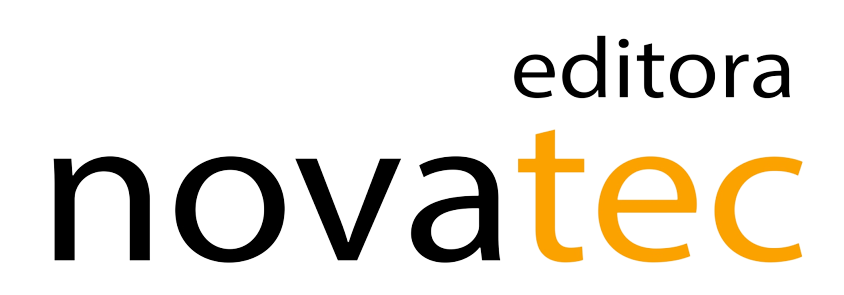
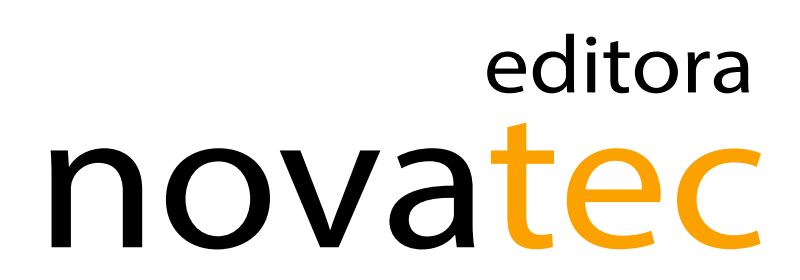
add novatec

diff --git a/index.html b/index.html
@@ -147,6 +147,10 @@ include_countdown: true
 						class="bg-white rounded-lg p-8 flex items-center justify-center transform hover:scale-105 transition duration-300">
 						<img src="{{ "/images/apoiadores/ISACA%20RIO.jpeg" | relative_url }}" alt="Red Team Village" class="h-24 w-auto object-contain">
 					</a>
+					<a href="https://novatec.com.br" 
+						class="bg-white rounded-lg p-8 flex items-center justify-center transform hover:scale-105 transition duration-300">
+						<img src="{{ "/images/apoiadores/novatec.png" | relative_url }}" alt="Novatec Editora" class="h-24 w-auto object-contain">
+					</a>
 				</div>
 			</div>
 		</div>
